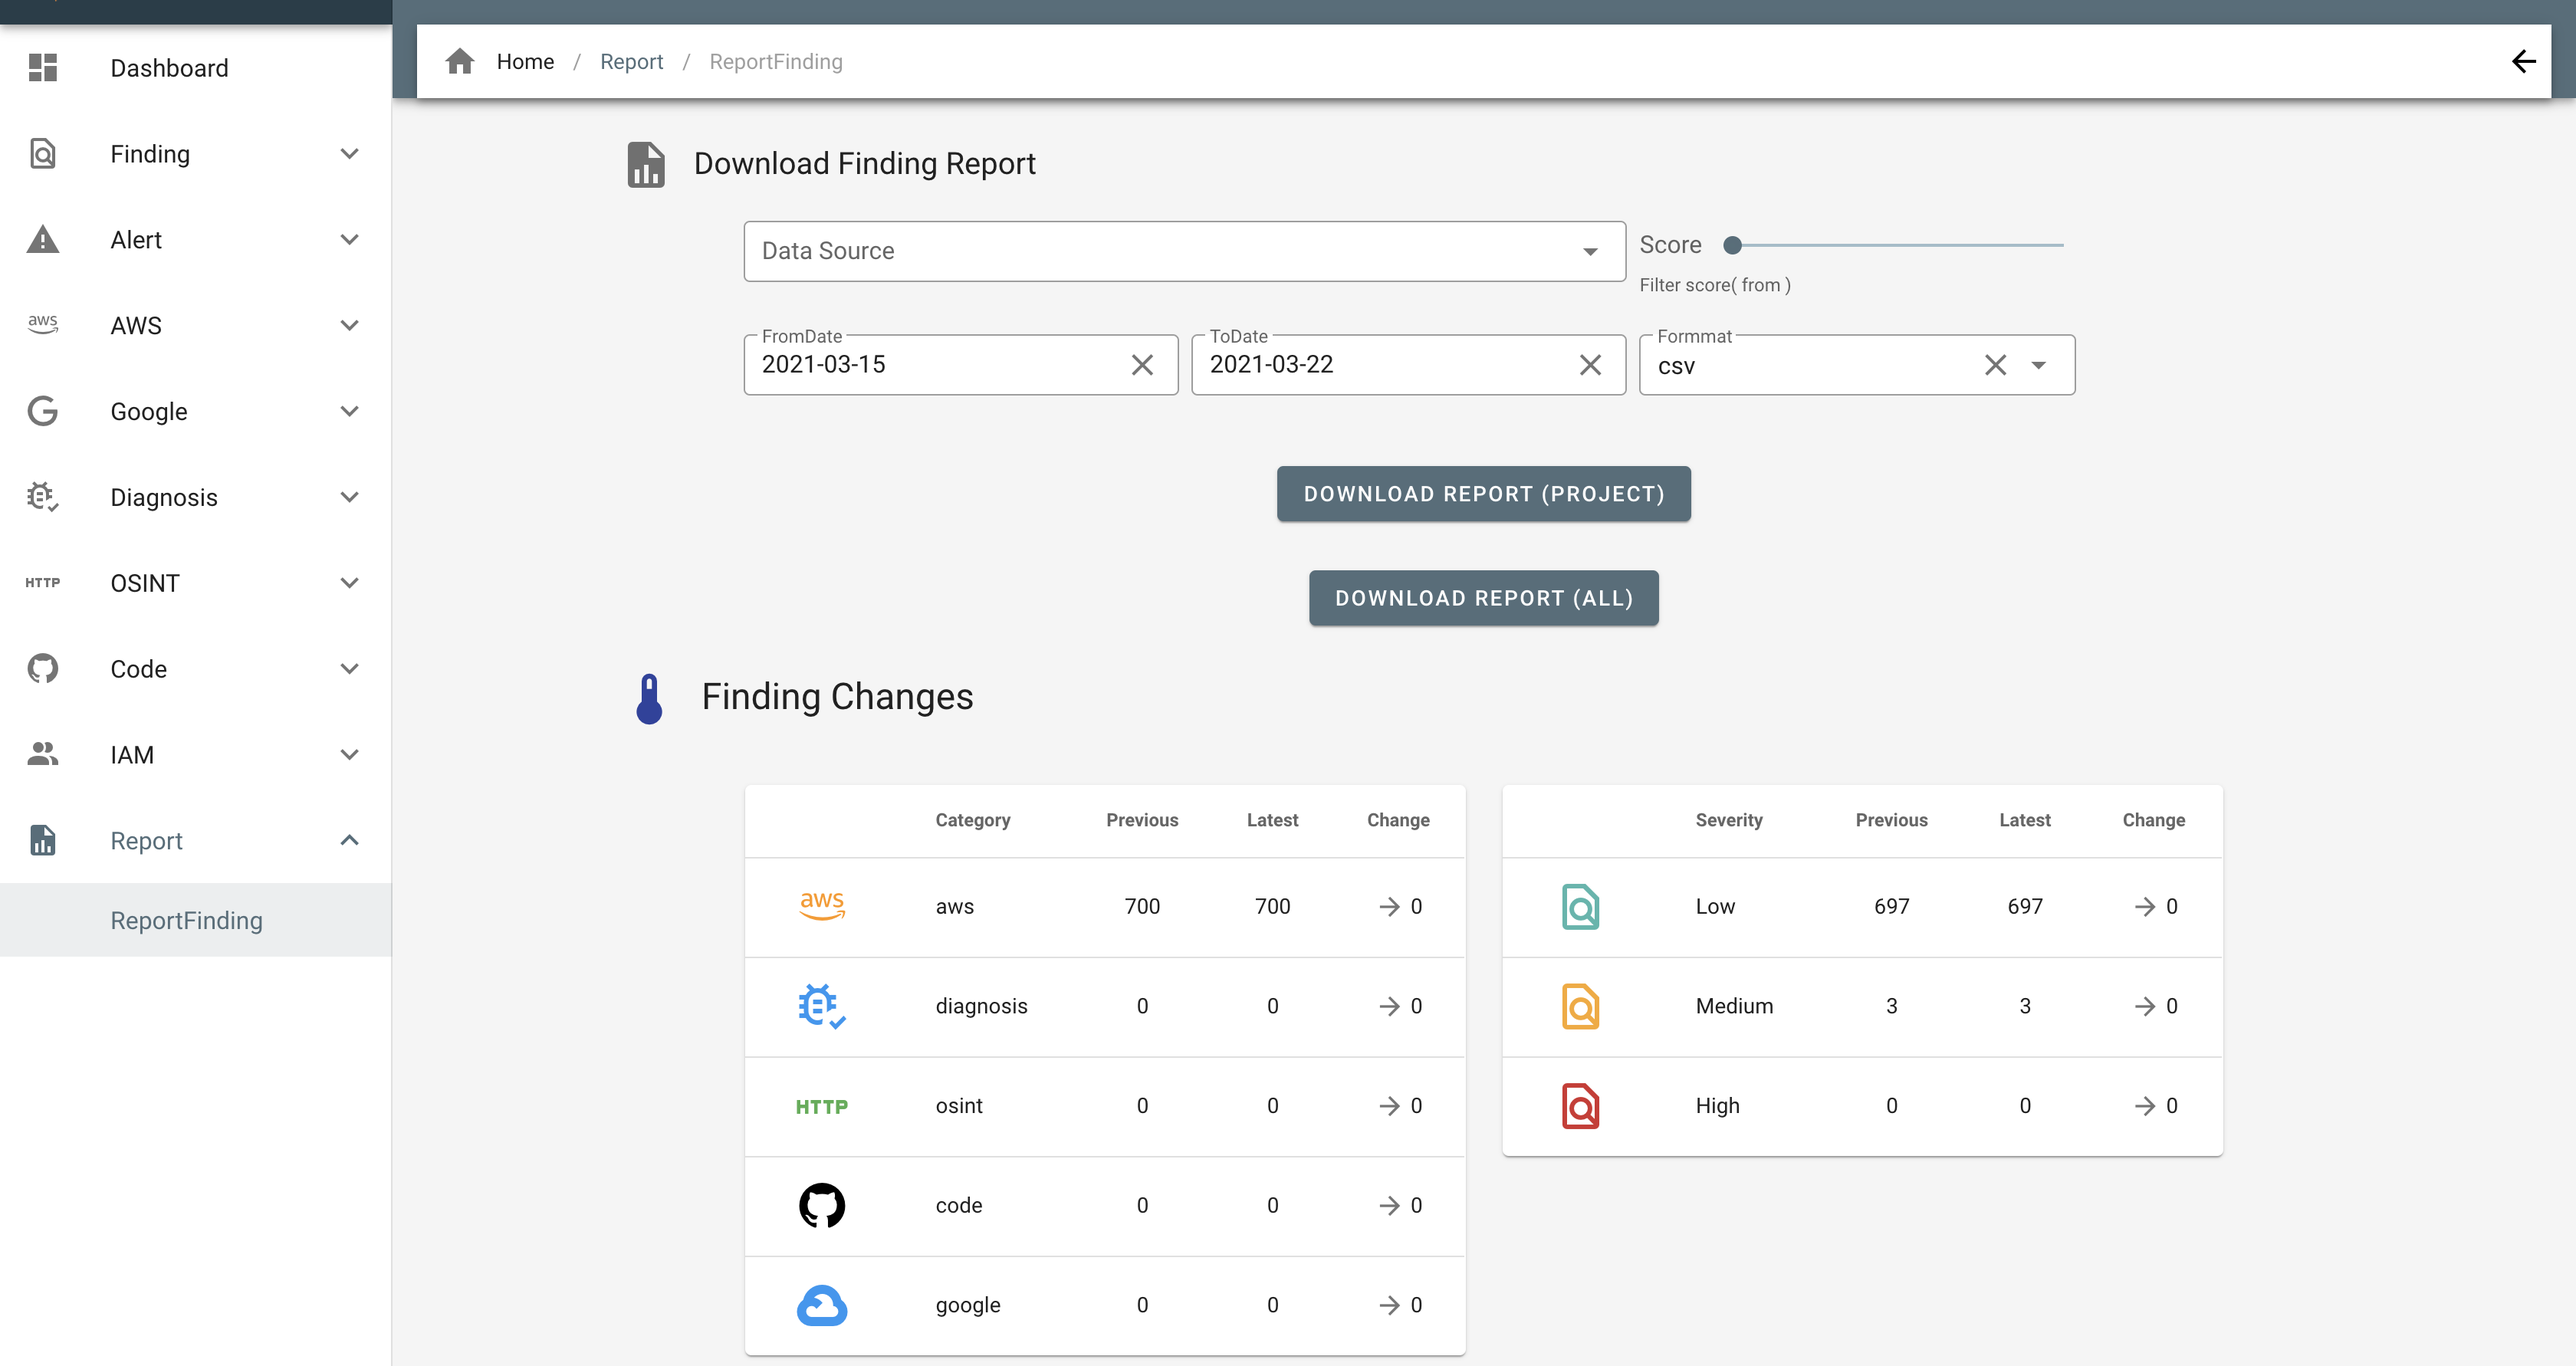
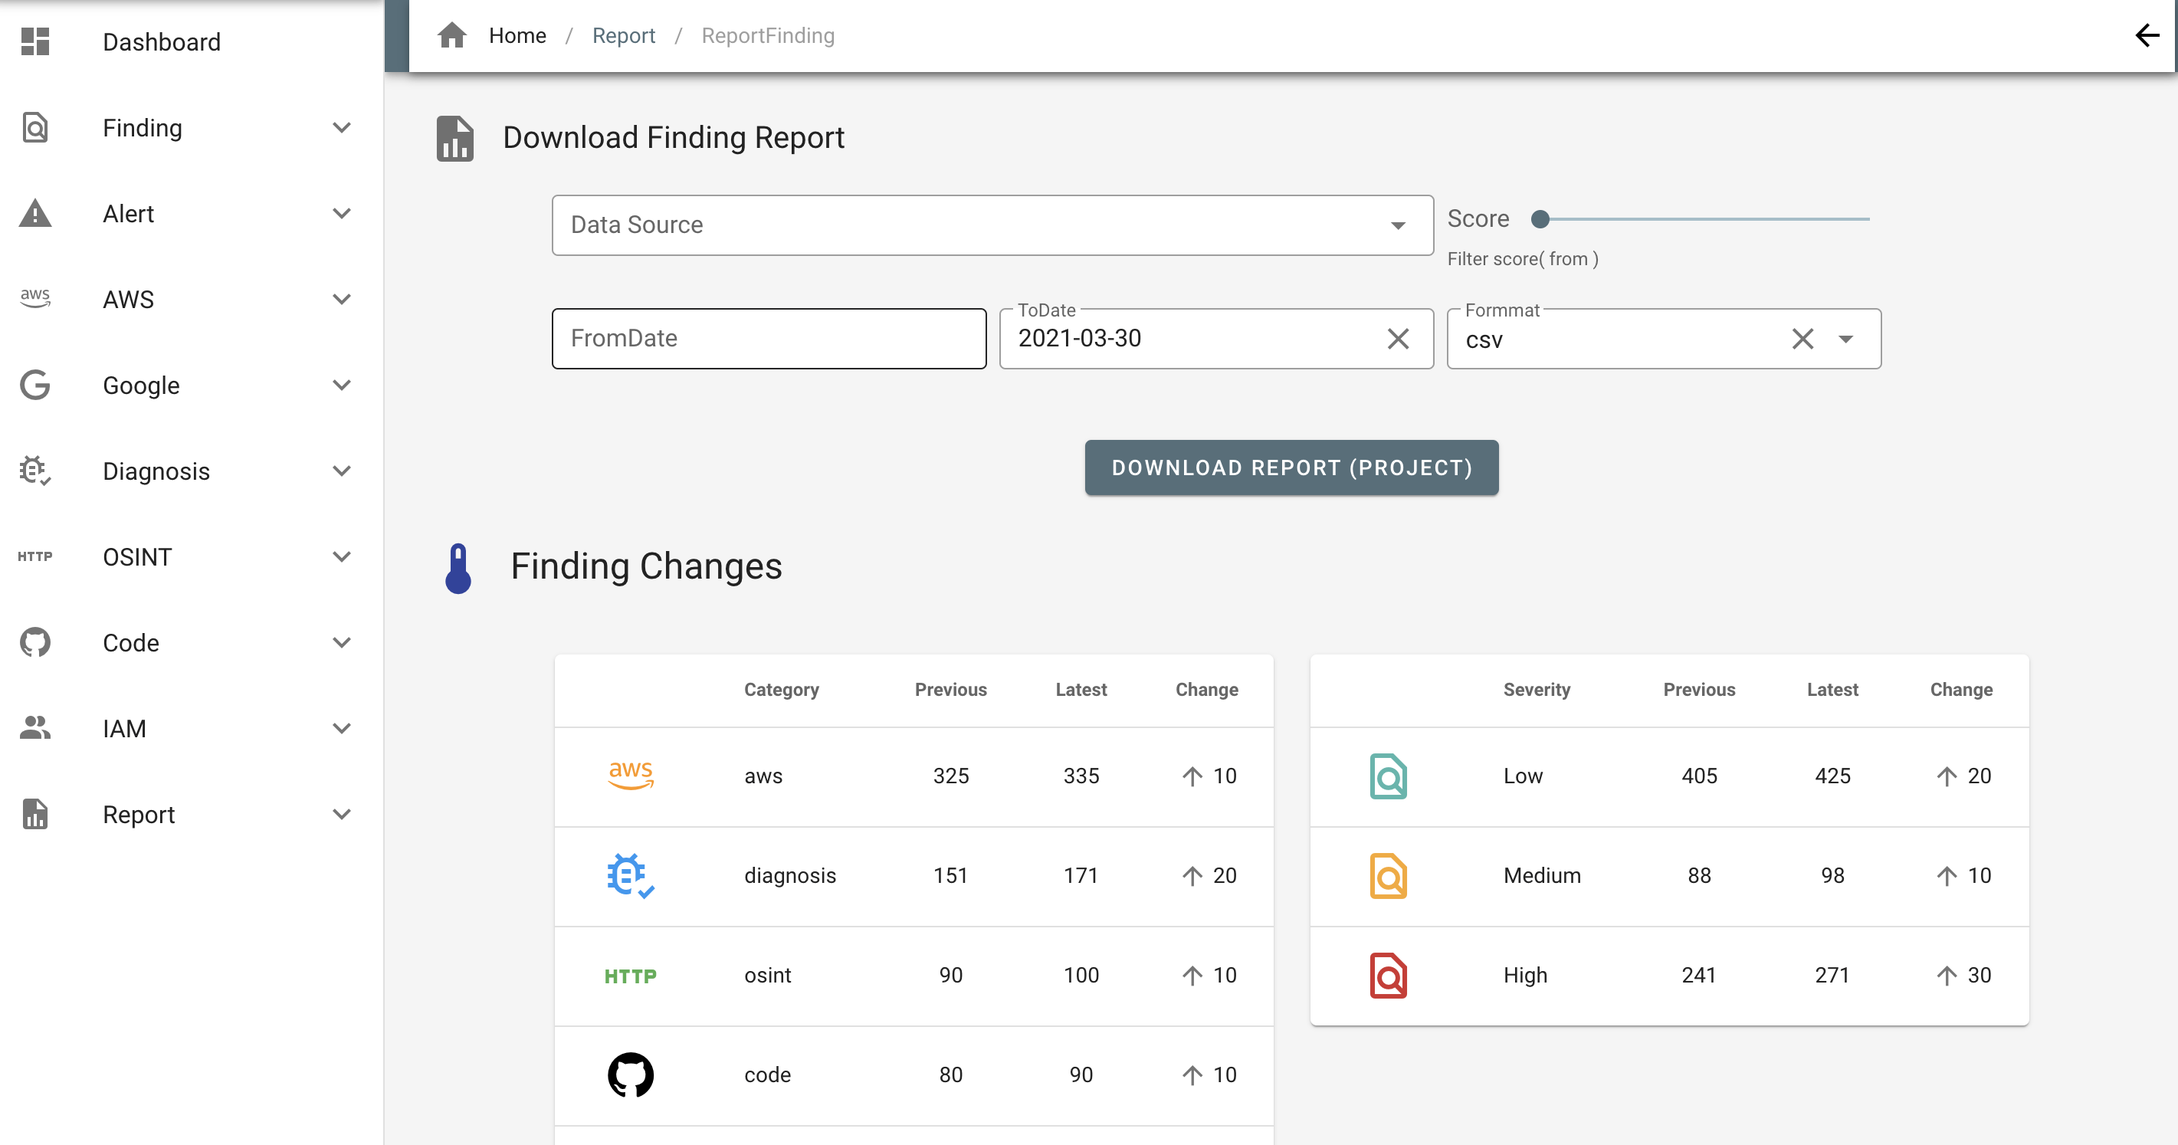
fix report
現状管理者向けの機能のため、Download Allの記述を削除しました。

diff --git a/docs/osint/domain_concept.md b/docs/osint/domain_concept.md
@@ -42,17 +42,17 @@ graph TD
 
 ### サブドメインテイクオーバーの可能性のあるドメイン
 
-サブドメインがCNameレコードを持っているか、サーバーがダウンしているかによってスコアを算出します
+サブドメインがCNAMEレコードを持っているか、サーバーがダウンしているかによってスコアを算出します
 
 サーバーがダウンしていて、かつ後述のサブドメインていくオーバーのリスクが高いドメインの場合にはさらにスコアが高くなります
 
 ```mermaid
 graph TD
-    A[Start] --> B{{Does subdomain has CName record?}};
+    A[Start] --> B{{Does subdomain has CNAME record?}};
     B -->|NO| C[Finding isn't registered.]:::low;
     B -->|YES| D{{Is subdomain seemed down?}};
     D -->|NO| E[Score: 0.1]:::low;
-    D -->|YES| F[Does CName match high lisk list?];
+    D -->|YES| F[Does CNAME match high lisk list?];
     F -->|NO| G[Score: 0.6]:::mid;
     F -->|YES| H[Score: 0.8]:::high;
     classDef high fill:#FFFFFF,stroke:#C2185B,stroke-width:4px;
@@ -60,11 +60,11 @@ graph TD
     classDef low fill:#FFFFFF,stroke:#4DB6AC,stroke-width:4px;
 ```
 
-## サブドメインていくオーバーのリスクが高いドメイン
+## サブドメインテイクオーバーのリスクが高いドメイン
 
-下記のリストは第三者がCNameを容易に取得できることが考えられるリストです
+下記のリストは第三者がCNAMEを容易に取得できることが考えられるリストです
 
-設定されているCNameがリストに該当する場合、サブドメインにアクセスした結果サーバーがダウンしている場合にはスコアが高くなります
+設定されているCNAMEがリストに該当する場合、サブドメインにアクセスした結果サーバーがダウンしている場合にはスコアが高くなります
 
 - herokuapp.com
 - herokussl.com
